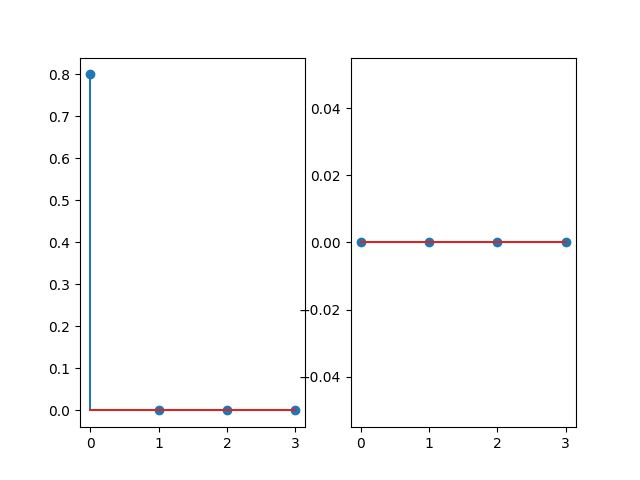
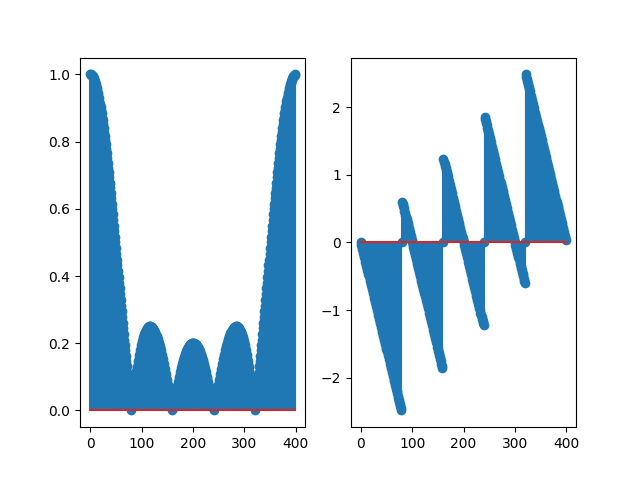
fix

diff --git a/skotsugi/chapter03/q07.py b/skotsugi/chapter03/q07.py
@@ -11,11 +11,11 @@ def diff_equation_n(i, a, b, x):
   x_sum = 0
   for k in range(1, N):
     j = i - k
-    y_sum = np.sum(-a[k] * diff_equation_n(j, a, b, x))
+    y_sum += -a[k] * diff_equation_n(j, a, b, x)
     
   for k in range(M):
     j = i - k
-    x_sum = np.sum(b[k] * x[j])
+    x_sum += (b[k] * x[j])
   return y_sum + x_sum
 
 def diff_equation(a, b, x):

diff --git a/skotsugi/chapter03/q10.py b/skotsugi/chapter03/q10.py
@@ -12,7 +12,7 @@ b = [ 0.4 ]
 y = diff_equation(a, b, x)
 
 fs = 16000
-N = 4
+N = 400
 f = np.arange(0, 1, 1 / N) * fs
 w = 2 * np.pi * f / fs
 
@@ -23,6 +23,6 @@ theta = np.angle(result)
 theta[A < 10**-5] = 0
 
 fig, ax = plt.subplots(1, 2)
-ax[0].stem(A)
-ax[1].stem(theta)
+ax[0].plot(A)
+ax[1].plot(theta)
 plt.savefig('./skotsugi/chapter03/q10.png')

diff --git a/skotsugi/chapter03/q09.py b/skotsugi/chapter03/q09.py
@@ -7,13 +7,13 @@ from q08 import freqz
 L = 10
 x = np.zeros(L)
 x[0] = 1
-a = [1]
-b = [0.2, 0.2, 0.2, 0.2]
+a = [0]
+b = [0.2, 0.2, 0.2, 0.2, 0.2]
 
 y = diff_equation(a, b, x)
 
 fs = 16000
-N = 4
+N = 400
 f = np.arange(0, 1, 1 / N) * fs
 w = 2 * np.pi * f / fs
 
